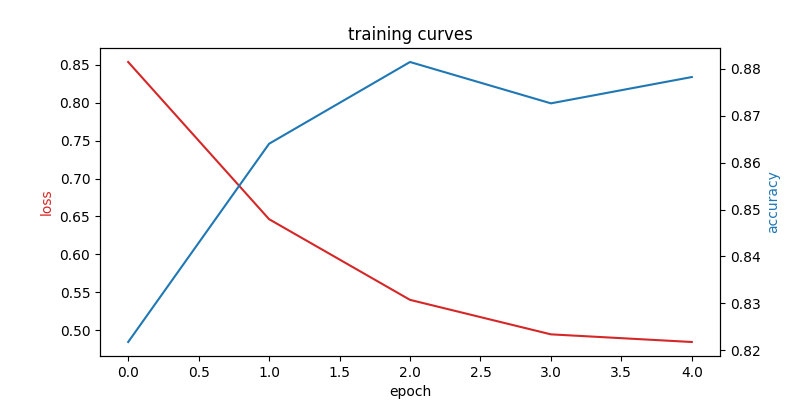
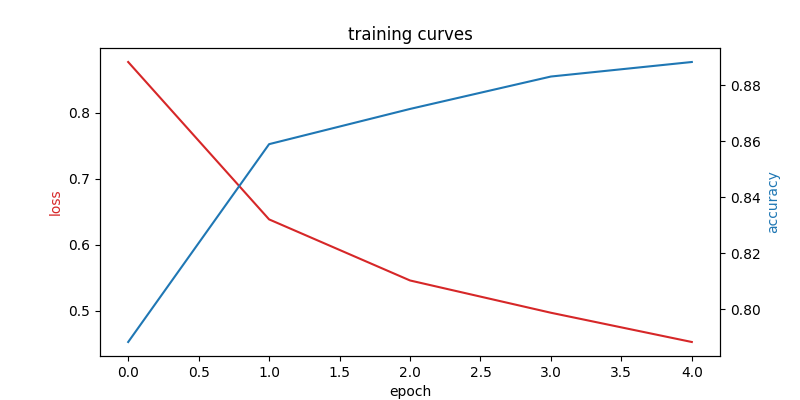
update

diff --git a/20-CV/weekly/week-03/data_utils.py b/20-CV/weekly/week-03/data_utils.py
@@ -40,10 +40,27 @@ def load_mnist(flatten=True, data_root='./data'):
 
 
 def one_hot(y, num_cls=10):
-    """整数标签 → one-hot。y:(N,) → (N,num_cls)。"""
+    """整数标签 → one-hot。y:(N,) → (N,num_cls)。
+
+    【为什么要做这一步】
+    模型输出 probs 是 (N,10) 的「概率分布」——每行 10 个数、和为 1。
+    而原始标签 y 是 (N,) 的整数（比如 7），一个整数没法和 10 维向量做减法/乘法：
+      - 交叉熵 L = -Σ_k y_k·log(p_k) 需要「真实分布 y_k」逐类去乘
+      - 梯度 dZ = probs - Y_oh 需要两边同形状 (N,10) 才能对减
+    所以把整数标签「翻译」成和 probs 同形状的真实分布：
+      标签 7 → [0,0,0,0,0,0,0,1,0,0]
+    含义 = 「正确答案是第 7 类，置信度 100%」——一个不含任何不确定性的理想分布。
+    这样「预测分布 vs 真实分布」就能逐元素比较了，loss 和梯度公式才写得出来。
+
+    【代码怎么实现】
+    oh[np.arange(N), y] = 1 是 numpy 的「成对索引」：
+      np.arange(N) = [0,1,2,...,N-1] 提供行号，y = [7,2,0,...] 提供列号，
+      两两配对 → 第 0 行第 7 列、第 1 行第 2 列……各置 1，其余保持 0。
+      等价于 for i in range(N): oh[i, y[i]] = 1，但一行向量化写完。
+    """
     N = len(y)
-    oh = np.zeros((N, num_cls))
-    oh[np.arange(N), y] = 1
+    oh = np.zeros((N, num_cls))                   # 先全 0：默认「每个类都不是答案」
+    oh[np.arange(N), y] = 1                       # 每行只在正确类别那一列点亮 1
     return oh
 
 
